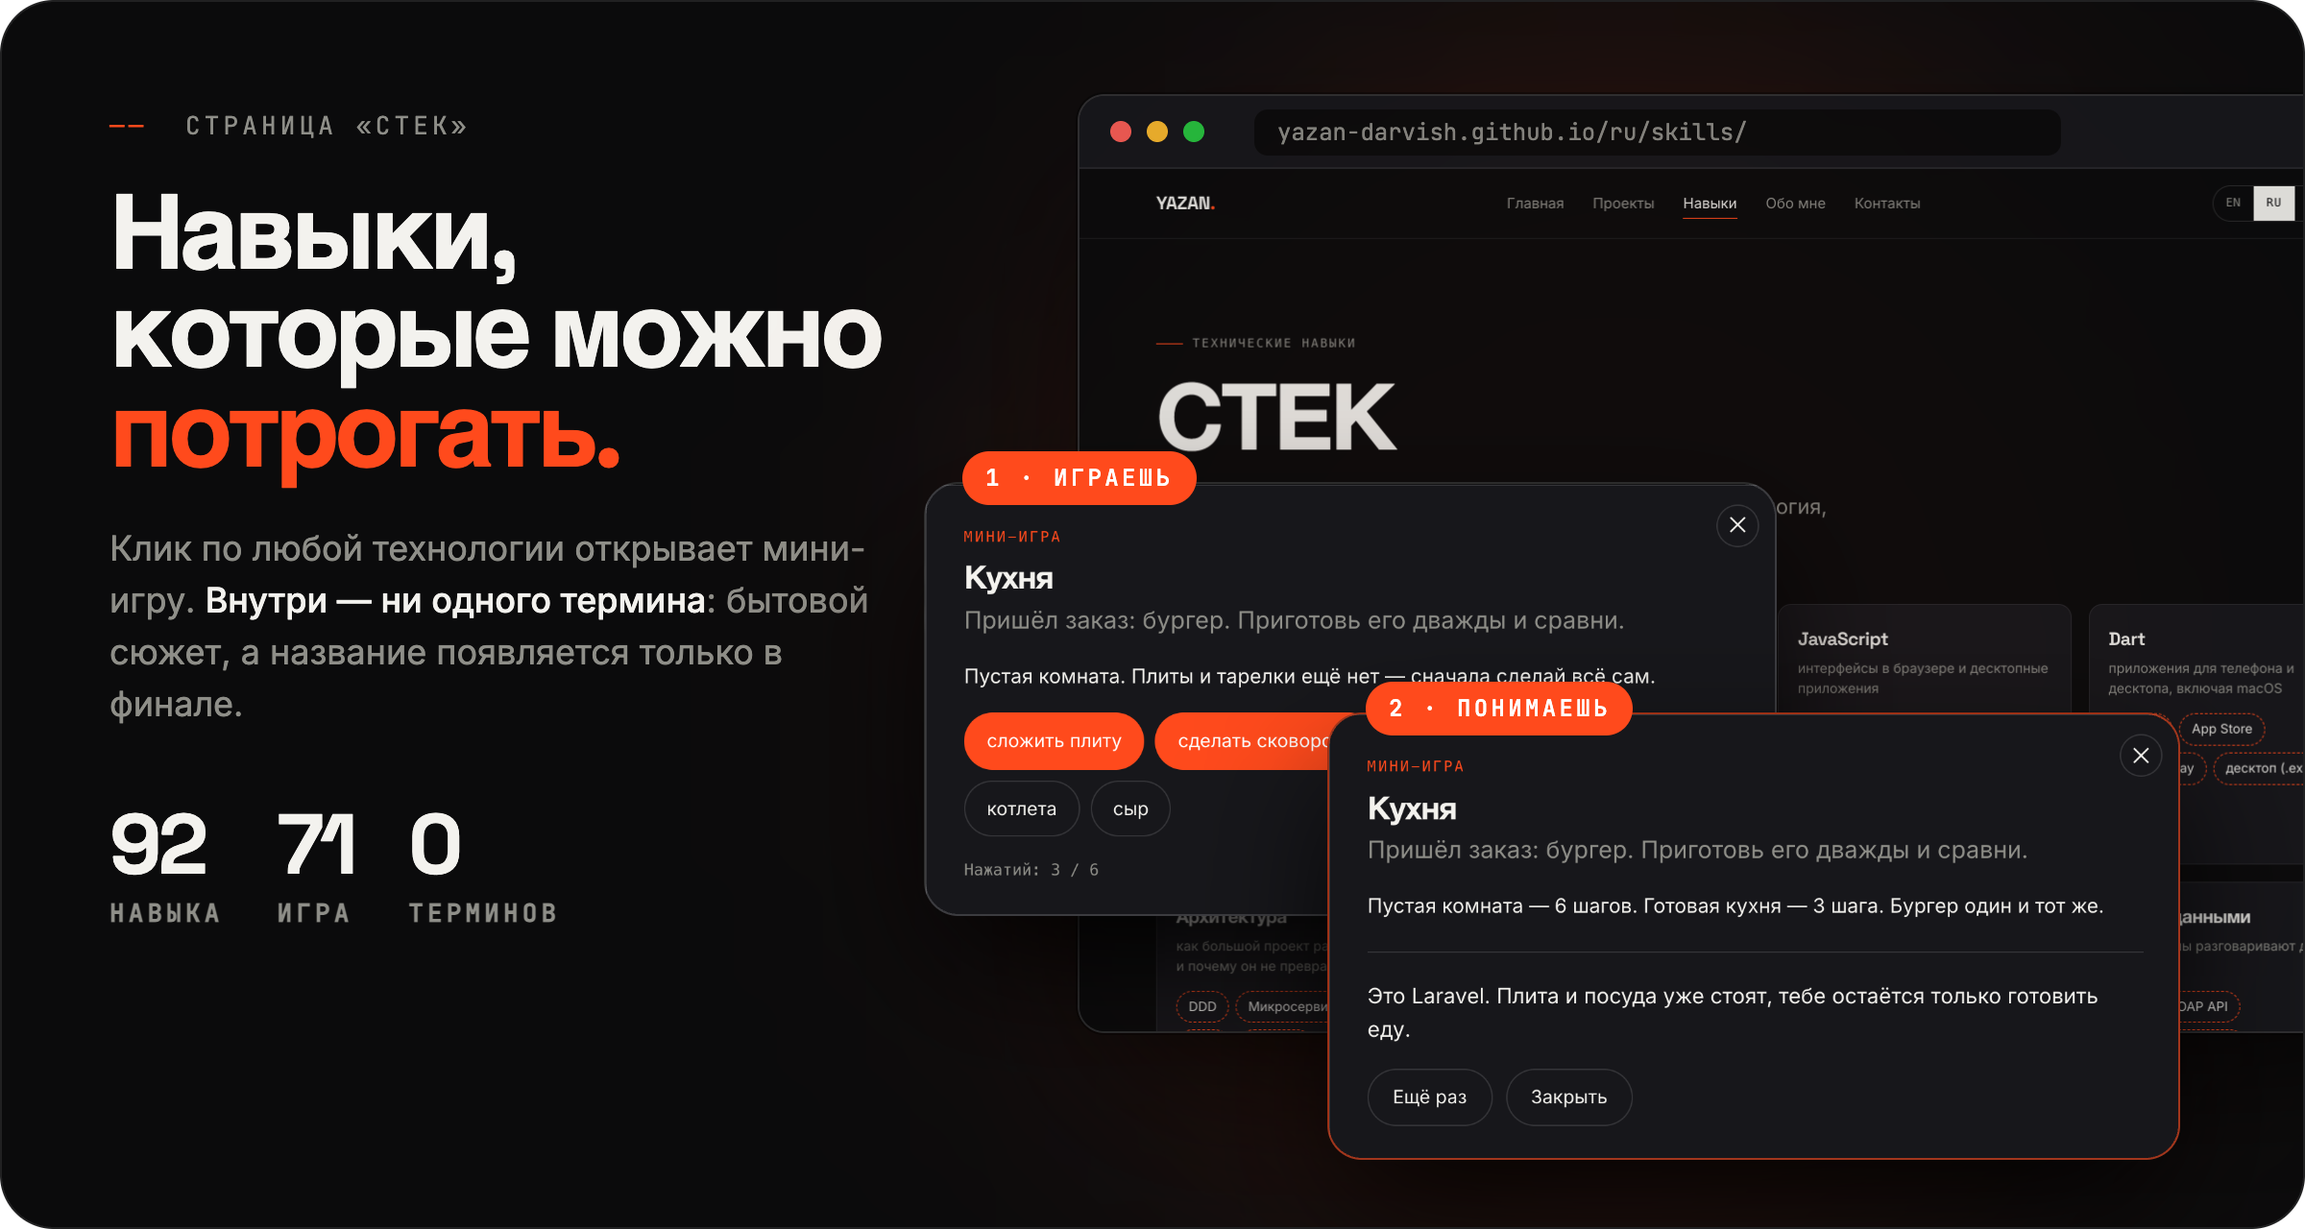
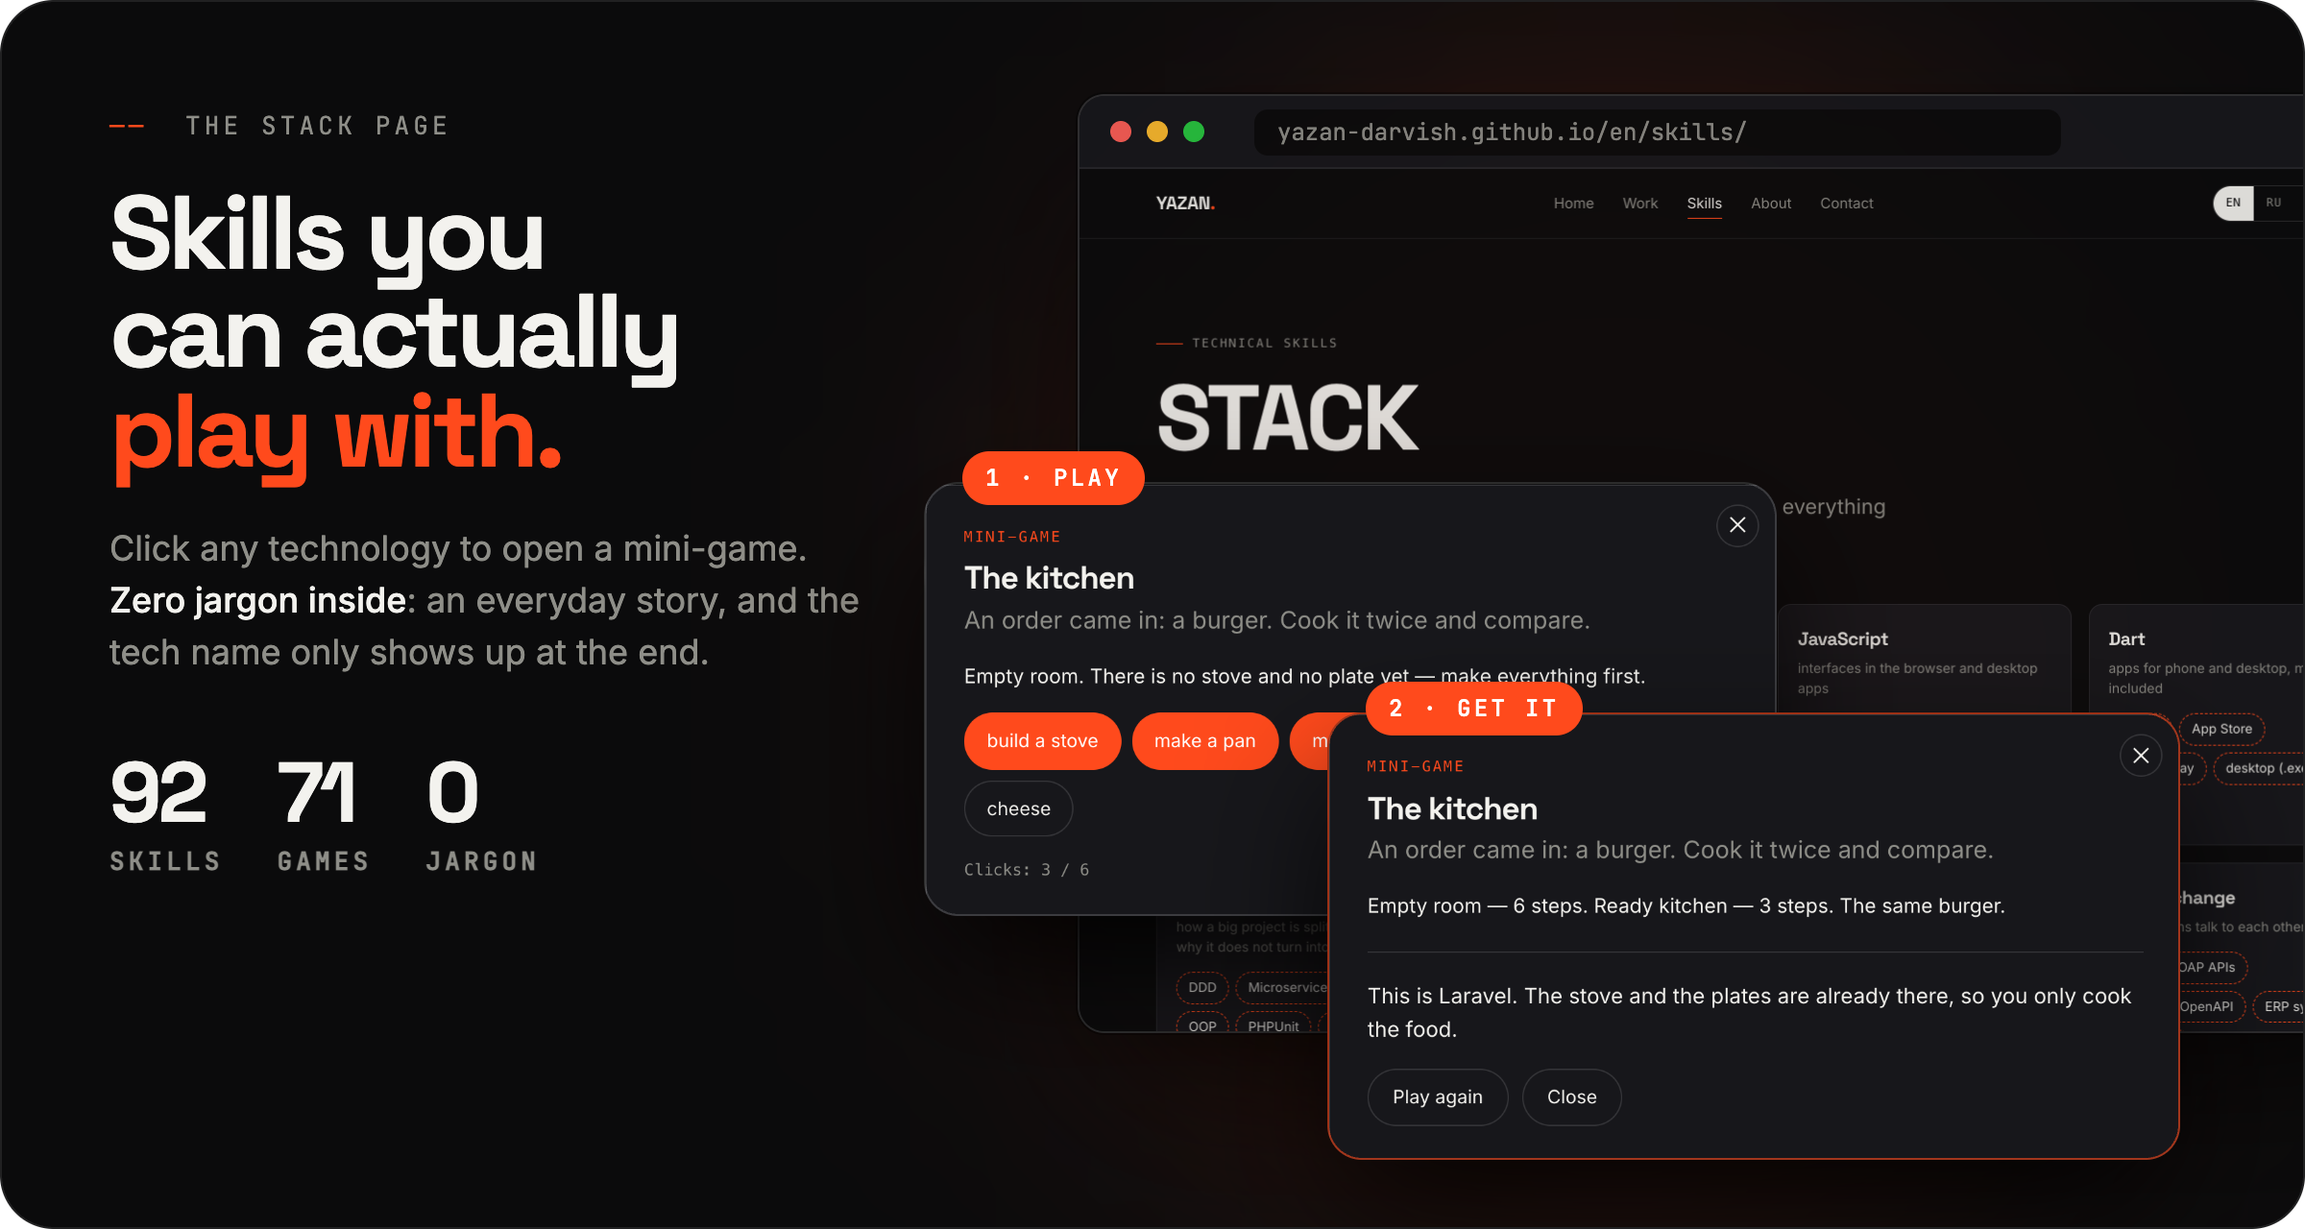
README in English

diff --git a/README.md b/README.md
@@ -4,71 +4,71 @@
 
 <br><br>
 
-<a href="https://yazan-darvish.github.io/"><img src="https://img.shields.io/badge/Открыть_сайт_→-ff4a1c?style=for-the-badge" alt="Открыть сайт"></a>
-<a href="https://yazan-darvish.github.io/ru/skills/"><img src="https://img.shields.io/badge/Сыграть_в_стек-17171b?style=for-the-badge" alt="Сыграть в стек"></a>
-<a href="https://yazan-darvish.github.io/ru/contact/"><img src="https://img.shields.io/badge/Резюме_PDF-17171b?style=for-the-badge" alt="Резюме PDF"></a>
+<a href="https://yazan-darvish.github.io/"><img src="https://img.shields.io/badge/Visit_the_site_→-ff4a1c?style=for-the-badge" alt="Visit the site"></a>
+<a href="https://yazan-darvish.github.io/en/skills/"><img src="https://img.shields.io/badge/Play_the_stack-17171b?style=for-the-badge" alt="Play the stack"></a>
+<a href="https://yazan-darvish.github.io/en/contact/"><img src="https://img.shields.io/badge/Resume_PDF-17171b?style=for-the-badge" alt="Resume PDF"></a>
 
 <br><br>
 
-<img src=".github/readme/stats.png" alt="10+ лет · 1.5M+ товаров · 100K+ пользователей · 41 терминал">
+<img src=".github/readme/stats.png" alt="10+ years · 1.5M+ products · 100K+ concurrent users · 41 kiosks">
 
 </div>
 
 <br>
 
-## Портфолио, которое можно потрогать
+## A portfolio you can play with
 
-Вместо списка технологий — **92 навыка, и у каждого своя мини-игра**. Клик по пилюле открывает окно с бытовым сюжетом, понятным даже ребёнку. Название технологии появляется только в финале: «Это Laravel, и вот зачем он нужен».
+Instead of a list of buzzwords — **92 skills, each with its own mini-game**. Click a pill and a window opens with an everyday story simple enough for a kid. The technology's name only appears at the very end: "This is Laravel, and here's why it exists."
 
-<a href="https://yazan-darvish.github.io/ru/skills/"><img src=".github/readme/games.png" alt="Страница «Стек» и мини-игра «Кухня»"></a>
+<a href="https://yazan-darvish.github.io/en/skills/"><img src=".github/readme/games.png" alt="The Stack page and the “Kitchen” mini-game"></a>
 
-| | Игра | Суть за 10 секунд |
+| | Game | The point in 10 seconds |
 |---|---|---|
-| **Laravel** | Кухня | бургер в пустой комнате — 6 шагов, в готовой кухне — 3 |
-| **PostgreSQL** | Всё или ничего | свет гаснет посреди перевода: деньги пропали или вернулись |
-| **Kubernetes** | Смотритель | домик упал в 3 ночи: лежит до утра или встал сам |
-| **Kafka / RabbitMQ** | Лента и очередь | событие читают все — или задание забирает ровно один |
-| **CashCode** | Купюроприёмник | мятую выплюнуло, подозрительную не взяло, сдачу отсчитало |
+| **Laravel** | The kitchen | a burger in an empty room takes 6 steps, in a ready kitchen — 3 |
+| **PostgreSQL** | All or nothing | the power cuts out mid-transfer: the money is gone — or rolled back |
+| **Kubernetes** | The caretaker | a house falls at 3 a.m.: down till morning, or back up on its own |
+| **Kafka / RabbitMQ** | Feed vs. queue | everyone reads the event — or exactly one worker takes the job |
+| **CashCode** | Bill acceptor | crumpled bill rejected, suspicious one refused, change counted out |
 
-**71 уникальная механика** — ни одна не повторяется: бюджет веса, поток на таймере, соединение пар, рубильник, ползунок, ветвящийся диалог.
+**71 unique mechanics**, none repeated: weight budget, timed stream, matching pairs, a switch, a slider, a branching dialogue.
 
 <details>
-<summary><b>Все игры по блокам →</b></summary>
+<summary><b>All games by block →</b></summary>
 
 <br>
 
-| Блок | Игр | Что внутри |
+| Block | Games | What's inside |
 |---|:---:|---|
-| **PHP** | 7 | Laravel — кухня, Symfony — ящик деталей, Yii2 — анкеты штампуются, CodeIgniter — мост на 3 кг, OpenCart — полки магазина, Bitrix — склад + бухгалтерия + магазин, WordPress — страница мышкой |
-| **Python** | 6 | OpenAI — сосед, словарь и всезнайка, RAG — ответ по твоей папке, векторный поиск — кружево против чашки, LLM в продакшене — ночная смена, AI-ассистент — покупатель в 02:15, AI-поиск — «что-нибудь тёплое» |
-| **JavaScript** | 6 | HTML/CSS — голая страница одевается, Vue — живая сумма, React — править кирпич, а не карточки, Node.js — зал и кулисы, Electron — страница в окне программы, .exe — касса без интернета |
-| **Dart** | 5 | Flutter — одна кнопка на iPhone и Android, App Store — три замечания проверяющего, Google Play — ползунок выката, macOS — подпись, .exe — три платформы из одной папки |
-| **Архитектура** | 6 | DDD — Entity#42 становится «заказом», микросервисы — башня и посёлок, SOLID — винт и корзина, ООП — одна форма, четыре печенья, PHPUnit — правки вслепую, PSR — пять почерков в тетради |
-| **Инфраструктура** | 9 | Docker — «у меня работает», Kubernetes — смотритель, Kafka — лента, RabbitMQ — очередь, CI/CD — ошибку найдут покупатели, S3 — диск забит фото, SES — письма в спам, Sentry — ошибка приходит сама, Bash — шаблон `*.jpg` |
-| **Базы и поиск** | 6 | SQL — полка отдаёт 2 из 6, PostgreSQL — всё или ничего, MySQL — копия для чтения, Redis — листок вместо подвала, Elasticsearch — слова внутри книг, Algolia — подсказка на лету |
-| **Обмен данными** | 5 | REST — окошко выдачи, Swagger — табличка на окошке, ERP — ARTNR/BEZ/MENGE, CSV/XML — одна куртка в двух обёртках, прямой доступ к БД — партнёр переименовал полку |
-| **Внешние сервисы** | 8 | Twilio — код из SMS, OneSignal — разрешение на уведомления, SendGrid — 1000 → 47 кликов, Resend — подтверждение домена, SailPlay — баллы, UDS — карта по номеру, Google Maps — адрес пальцем, Trello — обращения раскладываются сами |
-| **Аналитика** | 3 | GA4 — воронка с дырой на оплате, Google Ads — щит против объявления, отчёты — неделя в трёх разрезах |
-| **Платёжное железо** | 4 | SerialPort — каша из провода, Arcus — двойное списание, CashCode — купюроприёмник, Datecs — чек не стереть |
-| **Языки** | 5 | русский, румынский, английский, арабский, украинский — игры показывают не уровень, а его честную границу |
-| **Отрасли** | 1 | одна игра на 22 отрасли: семь документов из разных дел — угадай, откуда каждый |
+| **PHP** | 7 | Laravel — the kitchen, Symfony — a box of parts, Yii2 — forms that stamp themselves, CodeIgniter — a 3 kg bridge, OpenCart — stocking the shelves, Bitrix — warehouse + accounting + store, WordPress — a page built with the mouse |
+| **Python** | 6 | OpenAI — neighbour, dictionary and know-it-all, RAG — answers from your own folder, vector search — lace vs. a mug, LLM in production — the night shift, AI assistant — a customer at 2:15 a.m., AI search — "something warm" |
+| **JavaScript** | 6 | HTML/CSS — a bare page gets dressed, Vue — a live total, React — fix the brick, not every card, Node.js — the hall and backstage, Electron — a web page in an app window, .exe — a till that works offline |
+| **Dart** | 5 | Flutter — one button on iPhone and Android, App Store — three reviewer notes, Google Play — the rollout slider, macOS — code signing, .exe — three platforms from one folder |
+| **Architecture** | 6 | DDD — Entity#42 becomes "order", microservices — a tower vs. a village, SOLID — the screw and the cart, OOP — one mould, four cookies, PHPUnit — edits in the dark, PSR — five handwritings in one notebook |
+| **Infrastructure** | 9 | Docker — "works on my machine", Kubernetes — the caretaker, Kafka — the feed, RabbitMQ — the queue, CI/CD — customers find the bug, S3 — disk full of photos, SES — mail lands in spam, Sentry — the error reports itself, Bash — the `*.jpg` pattern |
+| **Databases & search** | 6 | SQL — the shelf returns 2 of 6, PostgreSQL — all or nothing, MySQL — a read replica, Redis — a note instead of the basement, Elasticsearch — words inside the books, Algolia — suggestions as you type |
+| **Data exchange** | 5 | REST — the service window, Swagger — the sign on the window, ERP — ARTNR/BEZ/MENGE, CSV/XML — one jacket in two wrappers, direct DB access — the partner renamed a shelf |
+| **External services** | 8 | Twilio — the SMS code, OneSignal — notification permission, SendGrid — 1000 sent → 47 clicks, Resend — domain verification, SailPlay — loyalty points, UDS — the card by phone number, Google Maps — pick the address with a finger, Trello — tickets sort themselves |
+| **Analytics** | 3 | GA4 — a funnel leaking at checkout, Google Ads — a billboard vs. a targeted ad, reports — one week, three cuts |
+| **Payment hardware** | 4 | SerialPort — garbage from the cable, Arcus — double charge, CashCode — the bill acceptor, Datecs — a receipt you can't erase |
+| **Languages** | 5 | Russian, Romanian, English, Arabic, Ukrainian — the games show not the level but its honest limit |
+| **Industries** | 1 | one game for 22 industries: seven documents from different businesses — guess where each came from |
 
 </details>
 
 <br>
 
-## Две темы, три языка, любой экран
+## Two themes, three languages, any screen
 
-<img src=".github/readme/themes.png" alt="Тёмная и светлая тема">
+<img src=".github/readme/themes.png" alt="Dark and light theme">
 
-- 📁 **13 проектов** — от крупного e-commerce до системы самообслуживания на 41 терминал
-- 💼 **11 мест работы** с 2015 года
-- 🌍 **EN · RU · RO** — язык переключается на любой странице, не сбрасывая на главную
-- 🐛 **Пасхалка** — клик по фотографии на главной запускает debug mode: отлов багов, где оружие называется PHP, Python, SQL, JS и Flutter
+- 📁 **13 projects** — from large-scale e-commerce to a self-service system running on 41 kiosks
+- 💼 **11 companies** since 2015
+- 🌍 **EN · RU · RO** — switch language on any page without being thrown back to home
+- 🐛 **Easter egg** — click the photo on the home page to start debug mode: a bug-hunting game where the weapons are PHP, Python, SQL, JS and Flutter
 
 <br>
 
-## Без единой зависимости
+## Zero dependencies
 
 <div align="center">
 
@@ -79,18 +79,18 @@
 
 </div>
 
-Ни React, ни сборщика, ни `node_modules`. В репозитории лежит готовый HTML, GitHub Pages его просто отдаёт. Весь сайт весит **2.1 МБ** вместе с фотографиями и тремя PDF резюме, а открывается даже двойным щелчком по файлу, без сервера.
+No React, no bundler, no `node_modules`. The repository holds plain, ready-to-serve HTML and GitHub Pages simply hosts it. The whole site weighs **2.1 MB** including photos and three PDF resumes — and it even opens with a double-click on the file, no server needed.
 
 <br>
 
 <div align="center">
 
-## Связаться
+## Get in touch
 
 <a href="mailto:azandarvis@gmail.com"><img src="https://img.shields.io/badge/Email-ff4a1c?style=for-the-badge&logo=gmail&logoColor=white" alt="Email"></a>
 <a href="https://t.me/azandarvis"><img src="https://img.shields.io/badge/Telegram-26A5E4?style=for-the-badge&logo=telegram&logoColor=white" alt="Telegram"></a>
 <a href="https://linkedin.com/in/yazan-in"><img src="https://img.shields.io/badge/LinkedIn-0A66C2?style=for-the-badge&logo=linkedin&logoColor=white" alt="LinkedIn"></a>
 
-<sub>Резюме в PDF на трёх языках — на <a href="https://yazan-darvish.github.io/ru/contact/">странице контактов</a></sub>
+<sub>Resume in PDF in three languages — on the <a href="https://yazan-darvish.github.io/en/contact/">contact page</a></sub>
 
 </div>
